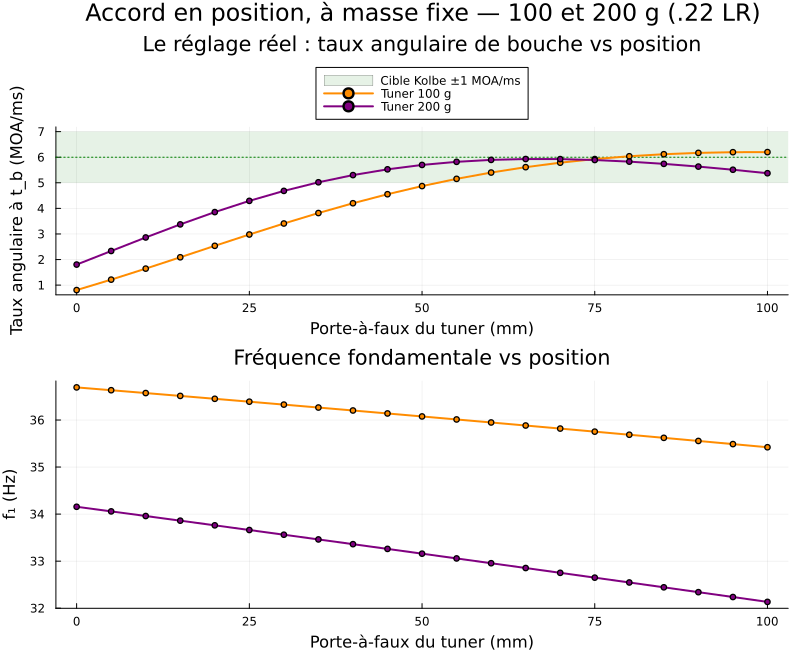
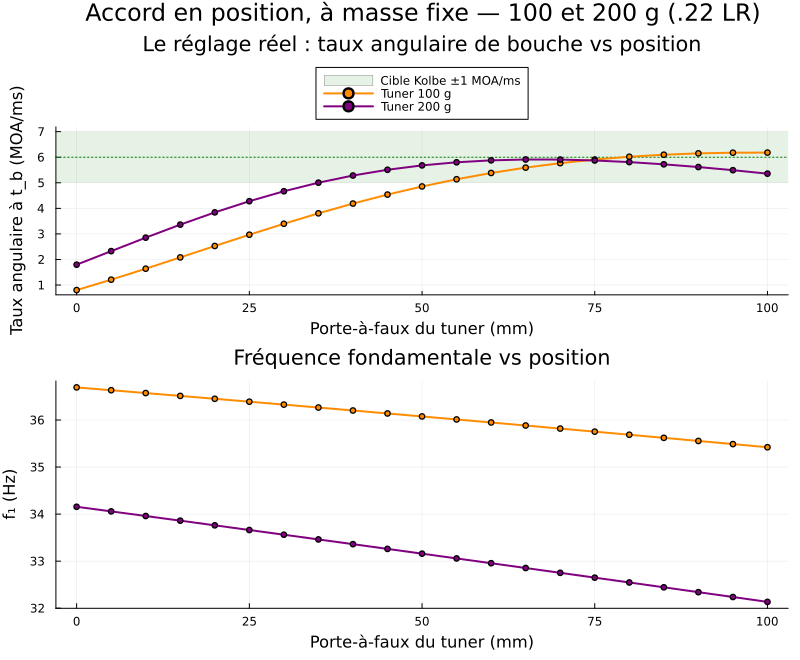
Sync depuis tireur.org/tuners @ 166262ee
Miroir automatique du sous-dossier tuners/ du dépôt principal (privé).
Généré par scripts/sync_tuner_repo.sh.

diff --git a/tuner_en.tex b/tuner_en.tex
@@ -328,7 +328,7 @@
 		\label{eq:hoffset_phys}
 		h_\text{offset}(m_r, h_\text{cg}) \;=\; h_\text{offset}^\text{ref}\,\frac{h_\text{cg}}{h_\text{cg}^\text{ref}}\,\frac{m_r^\text{ref}}{m_r},
 	\end{equation}
-	where the \emph{single} constant $h_\text{offset}^\text{ref}$ is calibrated once and for all on a plausible vibration amplitude for the reference rifle ($m_r^\text{ref} = 5$~kg, $h_\text{cg}^\text{ref} = 25.4$~mm --- the default values of Kolbe's simulator, not a measurement). Rather than recalibrating for each rifle, one then \emph{predicts} the dependence on two quantities measurable on the actual rifle --- the total weight $m_r$ (easily weighed) and the bore-to-centre-of-gravity distance $h_\text{cg}$ (trickier, obtained by balancing): mounting the same barrel on a lighter rifle, or one whose bore sits higher above the centre of gravity, amplifies the vibrations and calls for a fresh tuner setting.
+	where the \emph{single} constant $h_\text{offset}^\text{ref}$ is fixed once and for all for the reference rifle ($m_r^\text{ref} = 5$~kg, $h_\text{cg}^\text{ref} = 25.4$~mm --- the default values of Kolbe's simulator, not a measurement), and bounded by Vaughn's~\cite{Vaughn} excitation measurement (section~\ref{sec:validation_num}). Rather than recalibrating for each rifle, one then \emph{predicts} the dependence on two quantities measurable on the actual rifle --- the total weight $m_r$ (easily weighed) and the bore-to-centre-of-gravity distance $h_\text{cg}$ (trickier, obtained by balancing): mounting the same barrel on a lighter rifle, or one whose bore sits higher above the centre of gravity, amplifies the vibrations and calls for a fresh tuner setting.
 
 	\paragraph{(a$'$) Boundary conditions: clamping \emph{vs} a compliant action.} The model above assumes a perfect clamp at the breech ($y(0)=0,\ \theta(0)=0$). This is an idealisation: Kolbe~\cite{KolbeSim} prefers \emph{not} to fix the base and represents the compliance of the receiver by an additional beam segment ($\sim 100$~mm long, $\sim 38$~mm diameter, $\sim 25$~mm bore) appended at the rear, the whole assembly recoiling \emph{freely} in space (the \emph{free-recoil} assumption, well approximated by bag shooting but violated if a light rifle is firmly shouldered). Our rigid clamp therefore slightly overestimates the fundamental frequency and ignores the rigid-body recoil motion; it nonetheless remains relevant for the \emph{relative} muzzle angle $\theta(L,t)$, the only quantity that drives compensation (cf.\ Section~\ref{sec:cinematique}), and it simplifies the modal analysis. The ``compliant action'' refinement is the natural extension for quantitative work on a real rifle.
 
@@ -578,7 +578,7 @@
 	\subsection{Validation by FEM + Newmark-$\beta$ simulation}
 	\label{sec:validation_num}
 
-	The \texttt{Julia} simulator accompanying this document (\texttt{simulation.jl}) implements the full formalism: FEM assembly, clamping, tuner, internal ballistics (``burnout'' profile: acceleration over a fraction $\phi=0.35$ of the barrel, then coast, calibrated on Kolbe's $\tau_v$), excitation by the breech recoil moment $M(t) = p(t)\,A_\text{bore}\,h_\text{offset}$, moving projectile load, Rayleigh damping and Newmark-$\beta$ scheme. The lever arm $h_\text{offset}$ is automatically calibrated on an amplitude peak of $\sim 10$ MOA/ms. This peak value is a \emph{scale choice} of ours, not a figure from Kolbe: he publishes no oscillation peak, only the rate \emph{at the instant of exit} ($-9.4$ MOA/ms bare barrel, $+6.0$ tuned). The only quantity confronted with measurement is therefore $\dot\theta(L,t_b)$, not the peak.
+	The \texttt{Julia} simulator accompanying this document (\texttt{simulation.jl}) implements the full formalism: FEM assembly, clamping, tuner, internal ballistics (``burnout'' profile: acceleration over a fraction $\phi=0.35$ of the barrel, then coast, calibrated on Kolbe's $\tau_v$), excitation by the breech recoil moment $M(t) = p(t)\,A_\text{bore}\,h_\text{offset}$, moving projectile load, Rayleigh damping and Newmark-$\beta$ scheme. There the lever arm $h_\text{offset}$ is $16.5$~mm. It is an \emph{effective} quantity, not a dimension: it places the model at the compensation optimum for a tuner setting lying within the real adjustment range. Its physical referent comes from the only published measurement of the excitation itself, Vaughn's~\cite{Vaughn} (strain gauges on the forward receiver ring of a .270~Win, chapter~4): the \emph{applied} moment he reports, $\sim 1500$~in-lb, corresponds to a lever arm of $11.9$~mm, hence $\sim 9$ to $12$~mm once carried over to .22~LR through \eqref{eq:hoffset_phys}. The ratio, of order $1.4$ to $1.8$, \emph{quantifies} what the clamped frame omits --- the rigid-body rotation of the firearm under recoil. Adopting the physical value instead, in the amputated model, makes it unusable: it then saturates at $3.5$ MOA/ms and never reaches the $6.0$ optimum, in mass or in position. The only quantity confronted with measurement remains $\dot\theta(L,t_b)$.
 
 	\begin{figure}[!htb]
 		\centering
@@ -684,7 +684,9 @@
 
 	\emph{Methodological caveats.} The ``rigid muzzle'' line ($0.173''$) recovered to the hundredth is not a validation: it is obtained by subtracting two drop values Harral publishes himself, with no simulation involved. Nor can his modal analysis be reproduced, since \emph{he publishes no natural frequencies}. Finally, a trap awaits anyone replaying the exercise: in Harral's work, table and charts do not share the same reference --- ``The sag due to gravity was in the calculations, but subtracted out for the chart.'' The static sag is removed from the \emph{curves}, not from the \emph{proj} column of the table.
 
-	\paragraph{Summary of epistemic status.} The material gathered in this document is of unequal nature and benefits from being distinguished: \emph{measured} --- the principle of positive compensation and the 6.0 MOA/ms criterion (Kolbe, two concordant independent methods); \emph{computed but unvalidated} --- Harral's study, from which the warning of point~9 derives; \emph{failed} --- the recreation above, for want of whole-body rotation; \emph{outside the model} --- horizontal vibration (point~7) and rimfire excitation beyond the recoil moment alone (point~6).
+	\paragraph{12. An excitation assumed identical on every shot.} The model applies \emph{exactly} the same recoil moment shot after shot: one and the same cartridge produces one and the same vibration, hence one and the same muzzle angle at exit. The assumption is convenient --- it licenses speaking of \emph{one} exit instant and \emph{one} optimal setting --- but it is false, and the discrepancy has been measured. Vaughn~\cite{Vaughn} instrumented the receiver ring with strain gauges: on a .270~Win, the peak moment is nominally 450~in-lb but \emph{varies from 300 to 600~in-lb between shots with the same lot}, i.e. $\sim \pm 30\,\%$, the timing of the peak shifting as well. He attributes most of it to bolt-thrust variations and receiver asymmetries. On his unmodified rifle this \emph{variability} --- not the mean vibration --- accounts on its own for $\sim 0.8$~inch ($\sim 20$~mm) of dispersion at 100~yards. Three consequences for this document: a tuner set on \emph{mean} behaviour still suffers that spread, which is a \emph{floor} on a par with the ammunition's own dispersion; the narrow optimality window of section~\ref{sec:cinematique} is in fact \emph{blurred}, since $t_b$ and the amplitude do not repeat exactly; and the recoil moment is not the only source --- Vaughn identifies \emph{three} (recoil on the lug, bolt thrust on unevenly engaged lugs, receiver asymmetry) where \eqref{eq:moment_recul} retains one, and removing the recoil component alone \emph{does not} null the moment but exposes an opposite one. These figures are for a centerfire hunting rifle: their magnitude does not carry over to the match .22~LR, but the mechanism does.
+
+	\paragraph{Summary of epistemic status.} The material gathered in this document is of unequal nature and benefits from being distinguished: \emph{measured} --- the principle of positive compensation and the 6.0 MOA/ms criterion (Kolbe, two concordant independent methods); \emph{computed but unvalidated} --- Harral's study, from which the warning of point~9 derives; \emph{failed} --- the recreation above, for want of whole-body rotation; \emph{outside the model} --- horizontal vibration (point~7), rimfire excitation beyond the recoil moment alone (point~6), and the shot-to-shot variability of that excitation, measured at $\pm 30\,\%$ (point~12).
 
 	\section{The pre-charged pneumatic (PCP) case}
 	\label{sec:pcp}
@@ -741,6 +743,9 @@
 
 		\bibitem{Carlucci}
 		D. Carlucci and S. Jacobson, \textit{Ballistics: Theory and Design of Guns and Ammunition}, 3rd ed., CRC Press, 2018.
+
+		\bibitem{Vaughn}
+		H. R. Vaughn, \textit{Rifle Accuracy Facts}, Precision Shooting Inc., 1998. --- The only source measuring the \emph{excitation} itself (receiver-ring strain gauges, muzzle accelerometer), in centerfire.
 
 		\bibitem{Kolbe}
 		G. Kolbe, \textit{Using barrel vibrations to tune a barrel --- The Vibrations of a Barrel Tuned for Positive Compensation}, Border Barrels, 2015.

diff --git a/tuner_fr.tex b/tuner_fr.tex
@@ -328,7 +328,7 @@
 		\label{eq:hoffset_phys}
 		h_\text{offset}(m_r, h_\text{cg}) \;=\; h_\text{offset}^\text{réf}\,\frac{h_\text{cg}}{h_\text{cg}^\text{réf}}\,\frac{m_r^\text{réf}}{m_r},
 	\end{equation}
-	où la \emph{seule} constante $h_\text{offset}^\text{réf}$ est calée une fois pour toutes sur une amplitude vibratoire plausible pour l'arme de référence ($m_r^\text{réf} = 5$~kg, $h_\text{cg}^\text{réf} = 25{,}4$~mm --- les valeurs par défaut du simulateur de Kolbe, non une mesure). Au lieu de recalibrer pour chaque arme, on \emph{prédit} alors la dépendance à deux grandeurs mesurables sur l'arme réelle — le poids total $m_r$ (aisé à peser) et la distance $h_\text{cg}$ de l'âme au centre de gravité (plus délicate, déterminée par équilibrage) : monter le même canon sur une arme plus légère, ou dont l'âme est plus haut placée au-dessus du centre de gravité, amplifie les vibrations et impose un nouveau réglage du tuner.
+	où la \emph{seule} constante $h_\text{offset}^\text{réf}$ est fixée une fois pour toutes pour l'arme de référence ($m_r^\text{réf} = 5$~kg, $h_\text{cg}^\text{réf} = 25{,}4$~mm --- les valeurs par défaut du simulateur de Kolbe, non une mesure), et bornée par la mesure d'excitation de Vaughn~\cite{Vaughn} (section~\ref{sec:validation_num}). Au lieu de recalibrer pour chaque arme, on \emph{prédit} alors la dépendance à deux grandeurs mesurables sur l'arme réelle — le poids total $m_r$ (aisé à peser) et la distance $h_\text{cg}$ de l'âme au centre de gravité (plus délicate, déterminée par équilibrage) : monter le même canon sur une arme plus légère, ou dont l'âme est plus haut placée au-dessus du centre de gravité, amplifie les vibrations et impose un nouveau réglage du tuner.
 
 	\paragraph{(a$'$) Conditions aux limites : encastrement \emph{vs} action souple.} Le modèle ci-dessus suppose un encastrement parfait à la culasse ($y(0)=0,\ \theta(0)=0$). C'est une idéalisation : Kolbe~\cite{KolbeSim} préfère ne \emph{pas} bloquer la base et représente la souplesse de la boîte de culasse par un tronçon supplémentaire de poutre ($\sim 100$~mm de long, $\sim 38$~mm de diamètre, alésage $\sim 25$~mm) ajouté à l'arrière, l'ensemble reculant \emph{librement} dans l'espace (hypothèse \emph{free recoil}, bien approchée par un tir au sac mais mise en défaut si une arme légère est fermement épaulée). Notre encastrement rigide surestime donc légèrement la fréquence fondamentale et ignore le mouvement de corps rigide du recul ; il reste néanmoins pertinent pour l'\emph{angle relatif} de bouche $\theta(L,t)$, seule grandeur qui pilote la compensation (cf.\ section~\ref{sec:cinematique}), et simplifie l'analyse modale. Le raffinement « action souple » constitue l'extension naturelle pour un travail quantitatif sur arme réelle.
 
@@ -578,7 +578,7 @@
 	\subsection{Validation par simulation MEF + Newmark-$\beta$}
 	\label{sec:validation_num}
 
-	Le simulateur en \texttt{Julia} associé à ce document (\texttt{simulation.jl}) implémente l'ensemble du formalisme : assemblage MEF, encastrement, tuner, balistique interne (profil « burnout » : accélération sur une fraction $\phi=0{,}35$ du canon, puis coast, calé sur $\tau_v$ de Kolbe), excitation par moment de recul à la culasse $M(t) = p(t)\,A_\text{bore}\,h_\text{offset}$, charge mobile du projectile, amortissement de Rayleigh et schéma de Newmark-$\beta$. Le bras de levier $h_\text{offset}$ est calibré automatiquement sur un pic d'amplitude de $\sim 10$ MOA/ms. Cette valeur de pic est un \emph{choix d'échelle} de notre part, non un chiffre de Kolbe : il ne publie aucun pic d'oscillation, mais seulement le taux \emph{à l'instant de sortie} ($-9{,}4$ MOA/ms canon nu, $+6{,}0$ tuned). La seule grandeur confrontée à la mesure est donc $\dot\theta(L,t_b)$, non le pic.
+	Le simulateur en \texttt{Julia} associé à ce document (\texttt{simulation.jl}) implémente l'ensemble du formalisme : assemblage MEF, encastrement, tuner, balistique interne (profil « burnout » : accélération sur une fraction $\phi=0{,}35$ du canon, puis coast, calé sur $\tau_v$ de Kolbe), excitation par moment de recul à la culasse $M(t) = p(t)\,A_\text{bore}\,h_\text{offset}$, charge mobile du projectile, amortissement de Rayleigh et schéma de Newmark-$\beta$. Le bras de levier $h_\text{offset}$ y vaut $16{,}5$~mm. C'est une grandeur \emph{effective} et non une cote : elle situe le modèle à l'optimum de compensation pour un réglage de tuner compris dans la course réelle. Son référent physique est donné par la seule mesure publiée de l'excitation elle-même, celle de Vaughn~\cite{Vaughn} (jauges de contrainte sur l'anneau de culasse d'une .270~Win, chapitre~4) : le moment \emph{appliqué} qu'il rapporte, $\sim 1500$~in-lb, correspond à un bras de $11{,}9$~mm, soit $\sim 9$ à $12$~mm une fois reporté en .22~LR par \eqref{eq:hoffset_phys}. Le rapport, de l'ordre de $1{,}4$ à $1{,}8$, \emph{chiffre} ce que l'ossature encastrée omet --- la rotation d'ensemble de l'arme sous le recul. Adopter au contraire la valeur physique dans le modèle amputé le rend inutilisable : il plafonne alors à $3{,}5$ MOA/ms et n'atteint plus jamais l'optimum de $6{,}0$, en masse comme en position. La seule grandeur confrontée à la mesure reste $\dot\theta(L,t_b)$.
 
 	\begin{figure}[!htb]
 		\centering
@@ -684,7 +684,9 @@
 
 	\emph{Précisions de méthode.} La ligne « bouche rigide » ($0{,}173''$) retrouvée au centième près ne constitue pas une validation : elle se calcule en soustrayant deux valeurs de chute que Harral publie lui-même, sans qu'aucune simulation n'intervienne. Son analyse modale ne peut pas davantage être reproduite, car \emph{il ne publie aucune fréquence propre}. Enfin, un piège attend toute reprise de l'exercice : chez Harral, tableau et graphiques n'ont pas la même référence --- \og\,The sag due to gravity was in the calculations, but subtracted out for the chart.\,\fg{} La flèche statique est retirée des \emph{courbes}, non de la colonne \emph{proj} du tableau.
 
-	\paragraph{Synthèse des statuts.} Les éléments réunis dans ce document sont de nature inégale et gagnent à être distingués : \emph{mesuré} --- le principe de compensation positive et le critère de 6,0 MOA/ms (Kolbe, deux méthodes indépendantes concordantes) ; \emph{calculé mais non validé} --- l'étude de Harral, d'où procède la mise en garde du point~9 ; \emph{en échec} --- la recréation ci-dessus, faute de rotation d'ensemble ; \emph{hors modèle} --- la vibration horizontale (point~7) et l'excitation rimfire au-delà du seul moment de recul (point~6).
+	\paragraph{12. Une excitation supposée identique à chaque coup.} Le modèle applique coup après coup \emph{exactement} le même moment de recul : une même cartouche y produit une même vibration, donc un même angle de bouche à la sortie. L'hypothèse est commode --- elle autorise à parler d'\emph{un} instant de sortie et d'\emph{un} réglage optimal --- mais elle est fausse, et l'écart a été mesuré. Vaughn~\cite{Vaughn} a instrumenté l'anneau de culasse à jauges de contrainte : sur une .270~Win, le moment crête vaut nominalement 450~in-lb mais \emph{varie de 300 à 600~in-lb d'un coup à l'autre avec le même lot}, soit $\sim \pm 30\,\%$, l'instant du pic se déplaçant lui aussi. Il en attribue l'essentiel aux variations de poussée de culasse et aux asymétries du boîtier. Sur son arme non modifiée, cette \emph{variabilité} --- et non la vibration moyenne --- produit à elle seule $\sim 0{,}8$~pouce ($\sim 20$~mm) de dispersion à 100~yards. Trois conséquences pour ce document : un tuner accordé sur le comportement \emph{moyen} subit malgré tout cet étalement, qui constitue un \emph{plancher} au même titre que la dispersion propre de la munition ; la fenêtre d'optimalité étroite de la section~\ref{sec:cinematique} est en réalité \emph{brouillée}, $t_b$ et l'amplitude ne se répétant pas à l'identique ; enfin le moment de recul n'est pas la seule source --- Vaughn en identifie \emph{trois} (recul sur le tenon, poussée de culasse sur des tenons inégalement engagés, asymétrie du boîtier) là où \eqref{eq:moment_recul} n'en retient qu'une, et supprimer la seule composante de recul \emph{n'annule pas} le moment mais révèle une composante inverse. Ces chiffres portent sur une carabine centerfire de chasse : leur ordre de grandeur ne se transpose pas à la .22~LR de match, mais le mécanisme, lui, se transpose.
+
+	\paragraph{Synthèse des statuts.} Les éléments réunis dans ce document sont de nature inégale et gagnent à être distingués : \emph{mesuré} --- le principe de compensation positive et le critère de 6,0 MOA/ms (Kolbe, deux méthodes indépendantes concordantes) ; \emph{calculé mais non validé} --- l'étude de Harral, d'où procède la mise en garde du point~9 ; \emph{en échec} --- la recréation ci-dessus, faute de rotation d'ensemble ; \emph{hors modèle} --- la vibration horizontale (point~7), l'excitation rimfire au-delà du seul moment de recul (point~6), et la variabilité de cette excitation d'un coup à l'autre, mesurée à $\pm 30\,\%$ (point~12).
 
 	\section{Cas de l'arme à air précomprimée (PCP)}
 	\label{sec:pcp}
@@ -741,6 +743,9 @@
 
 		\bibitem{Carlucci}
 		D. Carlucci and S. Jacobson, \textit{Ballistics: Theory and Design of Guns and Ammunition}, 3rd ed., CRC Press, 2018.
+
+		\bibitem{Vaughn}
+		H. R. Vaughn, \textit{Rifle Accuracy Facts}, Precision Shooting Inc., 1998. --- Seule source mesurant l'\emph{excitation} elle-m\^eme (jauges de contrainte \`a l'anneau de culasse, acc\'el\'erom\`etre \`a la bouche), en centerfire.
 
 		\bibitem{Kolbe}
 		G. Kolbe, \textit{Using barrel vibrations to tune a barrel — The Vibrations of a Barrel Tuned for Positive Compensation}, Border Barrels, 2015.

diff --git a/tuner_fr.md b/tuner_fr.md
@@ -417,17 +417,19 @@ la section [5.5](#sec:validation_num){reference-type="ref"
 reference="sec:validation_num"} au moment de recul physique en
 factorisant sa dépendance, $$\label{eq:hoffset_phys}
         h_\text{offset}(m_r, h_\text{cg}) \;=\; h_\text{offset}^\text{réf}\,\frac{h_\text{cg}}{h_\text{cg}^\text{réf}}\,\frac{m_r^\text{réf}}{m_r},$$
-où la *seule* constante $h_\text{offset}^\text{réf}$ est calée une fois
-pour toutes sur une amplitude vibratoire plausible pour l'arme de
-référence ($m_r^\text{réf} = 5$ kg, $h_\text{cg}^\text{réf} = 25{,}4$ mm
---- les valeurs par défaut du simulateur de Kolbe, non une mesure). Au
-lieu de recalibrer pour chaque arme, on *prédit* alors la dépendance à
-deux grandeurs mesurables sur l'arme réelle --- le poids total $m_r$
-(aisé à peser) et la distance $h_\text{cg}$ de l'âme au centre de
-gravité (plus délicate, déterminée par équilibrage) : monter le même
-canon sur une arme plus légère, ou dont l'âme est plus haut placée
-au-dessus du centre de gravité, amplifie les vibrations et impose un
-nouveau réglage du tuner.
+où la *seule* constante $h_\text{offset}^\text{réf}$ est fixée une fois
+pour toutes pour l'arme de référence ($m_r^\text{réf} = 5$ kg,
+$h_\text{cg}^\text{réf} = 25{,}4$ mm --- les valeurs par défaut du
+simulateur de Kolbe, non une mesure), et bornée par la mesure
+d'excitation de Vaughn `\cite{Vaughn}`{=latex}
+(section [5.5](#sec:validation_num){reference-type="ref"
+reference="sec:validation_num"}). Au lieu de recalibrer pour chaque
+arme, on *prédit* alors la dépendance à deux grandeurs mesurables sur
+l'arme réelle --- le poids total $m_r$ (aisé à peser) et la distance
+$h_\text{cg}$ de l'âme au centre de gravité (plus délicate, déterminée
+par équilibrage) : monter le même canon sur une arme plus légère, ou
+dont l'âme est plus haut placée au-dessus du centre de gravité, amplifie
+les vibrations et impose un nouveau réglage du tuner.
 
 #### (a$'$) Conditions aux limites : encastrement *vs* action souple.
 
@@ -809,12 +811,22 @@ fraction $\phi=0{,}35$ du canon, puis coast, calé sur $\tau_v$ de
 Kolbe), excitation par moment de recul à la culasse
 $M(t) = p(t)\,A_\text{bore}\,h_\text{offset}$, charge mobile du
 projectile, amortissement de Rayleigh et schéma de Newmark-$\beta$. Le
-bras de levier $h_\text{offset}$ est calibré automatiquement sur un pic
-d'amplitude de $\sim 10$ MOA/ms. Cette valeur de pic est un *choix
-d'échelle* de notre part, non un chiffre de Kolbe : il ne publie aucun
-pic d'oscillation, mais seulement le taux *à l'instant de sortie*
-($-9{,}4$ MOA/ms canon nu, $+6{,}0$ tuned). La seule grandeur confrontée
-à la mesure est donc $\dot\theta(L,t_b)$, non le pic.
+bras de levier $h_\text{offset}$ y vaut $16{,}5$ mm. C'est une grandeur
+*effective* et non une cote : elle situe le modèle à l'optimum de
+compensation pour un réglage de tuner compris dans la course réelle. Son
+référent physique est donné par la seule mesure publiée de l'excitation
+elle-même, celle de Vaughn `\cite{Vaughn}`{=latex} (jauges de contrainte
+sur l'anneau de culasse d'une .270 Win, chapitre 4) : le moment
+*appliqué* qu'il rapporte, $\sim 1500$ in-lb, correspond à un bras de
+$11{,}9$ mm, soit $\sim 9$ à $12$ mm une fois reporté en .22 LR par
+[\[eq:hoffset_phys\]](#eq:hoffset_phys){reference-type="eqref"
+reference="eq:hoffset_phys"}. Le rapport, de l'ordre de $1{,}4$ à
+$1{,}8$, *chiffre* ce que l'ossature encastrée omet --- la rotation
+d'ensemble de l'arme sous le recul. Adopter au contraire la valeur
+physique dans le modèle amputé le rend inutilisable : il plafonne alors
+à $3{,}5$ MOA/ms et n'atteint plus jamais l'optimum de $6{,}0$, en masse
+comme en position. La seule grandeur confrontée à la mesure reste
+$\dot\theta(L,t_b)$.
 
 ![Réponse transitoire simulée pour la configuration nominale (tuner
 200 g, $h_\text{offset} = 16{,}5$ mm). De haut en bas : déflexion
@@ -1251,6 +1263,38 @@ gravity was in the calculations, but subtracted out for the chart.  La
 flèche statique est retirée des *courbes*, non de la colonne *proj* du
 tableau.
 
+#### 12. Une excitation supposée identique à chaque coup.
+
+Le modèle applique coup après coup *exactement* le même moment de recul
+: une même cartouche y produit une même vibration, donc un même angle de
+bouche à la sortie. L'hypothèse est commode --- elle autorise à parler
+d'*un* instant de sortie et d'*un* réglage optimal --- mais elle est
+fausse, et l'écart a été mesuré. Vaughn `\cite{Vaughn}`{=latex} a
+instrumenté l'anneau de culasse à jauges de contrainte : sur une
+.270 Win, le moment crête vaut nominalement 450 in-lb mais *varie de 300
+à 600 in-lb d'un coup à l'autre avec le même lot*, soit
+$\sim \pm 30\,\%$, l'instant du pic se déplaçant lui aussi. Il en
+attribue l'essentiel aux variations de poussée de culasse et aux
+asymétries du boîtier. Sur son arme non modifiée, cette *variabilité*
+--- et non la vibration moyenne --- produit à elle seule
+$\sim 0{,}8$ pouce ($\sim 20$ mm) de dispersion à 100 yards. Trois
+conséquences pour ce document : un tuner accordé sur le comportement
+*moyen* subit malgré tout cet étalement, qui constitue un *plancher* au
+même titre que la dispersion propre de la munition ; la fenêtre
+d'optimalité étroite de la
+section [5](#sec:cinematique){reference-type="ref"
+reference="sec:cinematique"} est en réalité *brouillée*, $t_b$ et
+l'amplitude ne se répétant pas à l'identique ; enfin le moment de recul
+n'est pas la seule source --- Vaughn en identifie *trois* (recul sur le
+tenon, poussée de culasse sur des tenons inégalement engagés, asymétrie
+du boîtier) là où
+[\[eq:moment_recul\]](#eq:moment_recul){reference-type="eqref"
+reference="eq:moment_recul"} n'en retient qu'une, et supprimer la seule
+composante de recul *n'annule pas* le moment mais révèle une composante
+inverse. Ces chiffres portent sur une carabine centerfire de chasse :
+leur ordre de grandeur ne se transpose pas à la .22 LR de match, mais le
+mécanisme, lui, se transpose.
+
 #### Synthèse des statuts.
 
 Les éléments réunis dans ce document sont de nature inégale et gagnent à
@@ -1259,8 +1303,9 @@ le critère de 6,0 MOA/ms (Kolbe, deux méthodes indépendantes
 concordantes) ; *calculé mais non validé* --- l'étude de Harral, d'où
 procède la mise en garde du point 9 ; *en échec* --- la recréation
 ci-dessus, faute de rotation d'ensemble ; *hors modèle* --- la vibration
-horizontale (point 7) et l'excitation rimfire au-delà du seul moment de
-recul (point 6).
+horizontale (point 7), l'excitation rimfire au-delà du seul moment de
+recul (point 6), et la variabilité de cette excitation d'un coup à
+l'autre, mesurée à $\pm 30\,\%$ (point 12).
 
 # Cas de l'arme à air précomprimée (PCP) {#sec:pcp}
 
@@ -1383,6 +1428,10 @@ K.-J. Bathe, *Finite Element Procedures*, 2nd ed., Prentice Hall, 2014.
 
 D. Carlucci and S. Jacobson, *Ballistics: Theory and Design of Guns and
 Ammunition*, 3rd ed., CRC Press, 2018.
+
+H. R. Vaughn, *Rifle Accuracy Facts*, Precision Shooting Inc., 1998. ---
+Seule source mesurant l'*excitation* elle-même (jauges de contrainte à
+l'anneau de culasse, accéléromètre à la bouche), en centerfire.
 
 G. Kolbe, *Using barrel vibrations to tune a barrel --- The Vibrations
 of a Barrel Tuned for Positive Compensation*, Border Barrels, 2015.